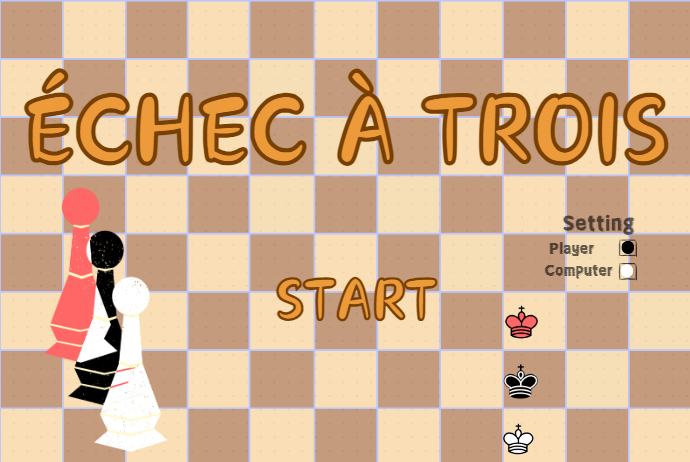
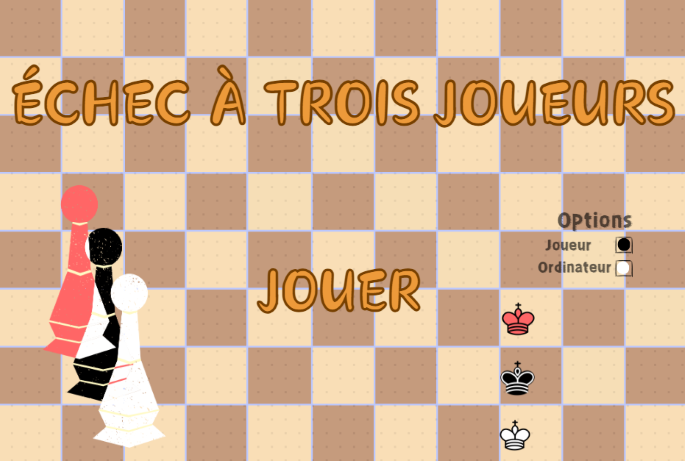
main menu

Changed region(s): [[0.0, 0.0, 1.0, 1.0]]

diff --git a/main_menu.py b/main_menu.py
@@ -1,0 +1,83 @@
+import pygame
+import sys
+
+# couleur
+WHITE = (255, 255, 255)
+BLACK = (0, 0, 0)
+RED = (255, 0, 0)
+# coordonnées pour les buttons
+start_button_rect = pygame.Rect(281, 280, 150, 50)
+red_choice_rect = pygame.Rect(600, 310, 20, 20)
+black_choice_rect = pygame.Rect(600, 373, 20, 20)
+white_choice_rect = pygame.Rect(600, 433, 20, 20)
+
+class MainMenu:
+	def __init__(self) -> None:
+		pygame.init()
+
+		# Désigne la screen
+		self.screen = pygame.display.set_mode((685, 465))
+
+		self.background = pygame.image.load('assets/game start page.png')
+
+		self.running = True
+		self.settings = {'W': True, 'B': False, 'R': False}
+
+	def draw_screen(self):
+		self.screen.fill(WHITE)
+		self.screen.blit(self.background, (0, 0))
+		
+		# Start
+		# pygame.draw.rect(screen, RED, start_button_rect)
+		
+		# Dessiner une boîte de sélection
+		pygame.draw.rect(self.screen, BLACK, red_choice_rect, 2)
+		pygame.draw.rect(self.screen, BLACK, black_choice_rect, 2)
+		pygame.draw.rect(self.screen, BLACK, white_choice_rect, 2)
+		
+		# Afficher l'état de la case à cocher
+		cases = [
+			('R', red_choice_rect),
+			('B', black_choice_rect),
+			('W', white_choice_rect),
+		]
+		for team, rect in cases:
+			col = BLACK if self.settings[team] else WHITE
+			pygame.draw.circle(self.screen, col, rect.center, 10)
+
+		pygame.display.flip()
+
+	def start(self):
+		actions = [
+			(start_button_rect, self.start_game),
+			(white_choice_rect, self.change_settings('W')),
+			(black_choice_rect, self.change_settings('B')),
+			(red_choice_rect, self.change_settings('R')),
+		]
+		while self.running:
+			for event in pygame.event.get():
+				if event.type == pygame.QUIT:
+					pygame.quit()
+					self.running = False
+				
+				if event.type == pygame.MOUSEBUTTONDOWN:
+					for rect, action in actions:
+						if rect.collidepoint(event.pos):
+							action()
+
+			self.draw_screen()
+		return self.settings
+
+	def change_settings(self, team):
+		def wrapper():
+			self.settings[team] = not self.settings[team]
+		return wrapper
+
+	def start_game(self):
+		print("Game started with settings:", self.settings)
+		self.running = False
+
+
+if __name__ == "__main__":
+	main_menu = MainMenu()
+	main_menu.start()

diff --git a/GUI.py b/GUI.py
@@ -162,7 +162,7 @@ class GUI:
 				# Conditions pour b, d, f, h
 			elif x in (1, 3, 5, 7):
 				color = 'white' if (y % 2 == 0) else 'grey'
-        		# Exceptions for l, j "8,6,9,11" (Noir)
+				# Exceptions for l, j "8,6,9,11" (Noir)
 			elif x in (8, 6, 9, 11) and y in (8, 6, 9, 11):
 				color = 'white'
  				# Exceptions for i, k "8,6,9,11" (Blanc)
@@ -446,8 +446,13 @@ class GUI:
 			piece.pos = x, y
 
 		if piece.check_promotion() is True:
-			choice = self.promotion_popup()
-			piece.promote(choice) # If check_promotion is True then this exists
+			if self.playable_teams[piece.team] is False:
+				# Bot promotion
+				choice = 'Q'
+			else:
+				choice = self.promotion_popup()
+
+			piece.promote(choice) # If check_promotion is True then this function exists
 
 		sprite = piece.sprite
 		

diff --git a/main.py b/main.py
@@ -1,5 +1,9 @@
 import GUI
+from main_menu import MainMenu
 
 if __name__ == "__main__":
-	gui = GUI.GUI({'W': True, 'R': True, 'B': True, }) # We really need a main menu, help
+	main_menu = MainMenu()
+	teams = main_menu.start()
+ 
+	gui = GUI.GUI(teams)
 	gui.start()
